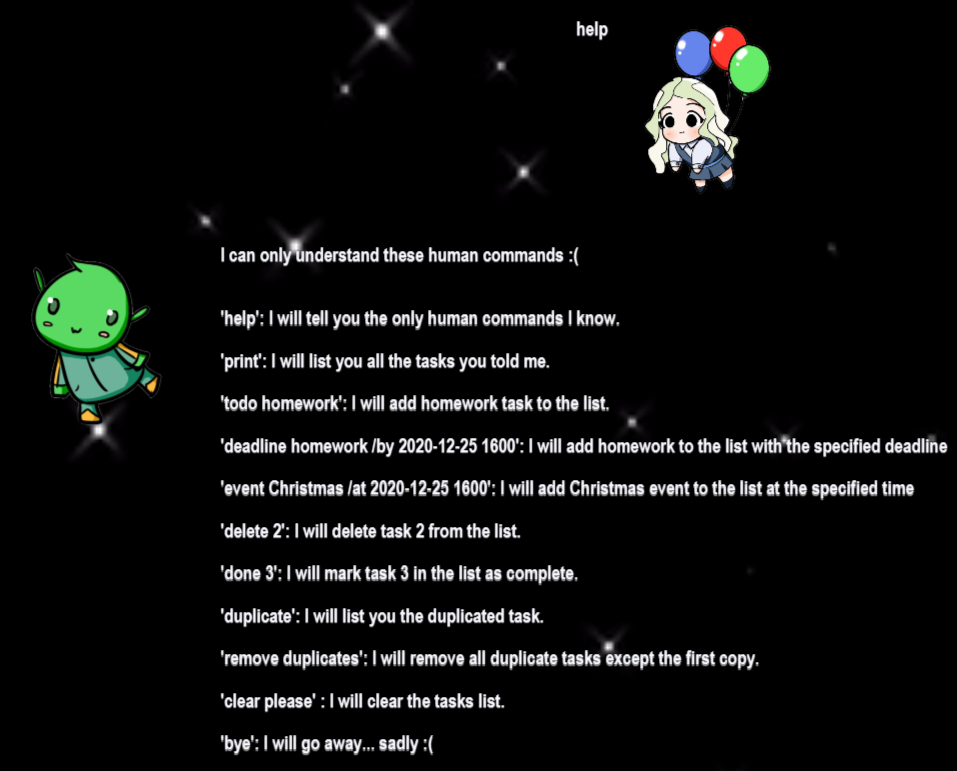
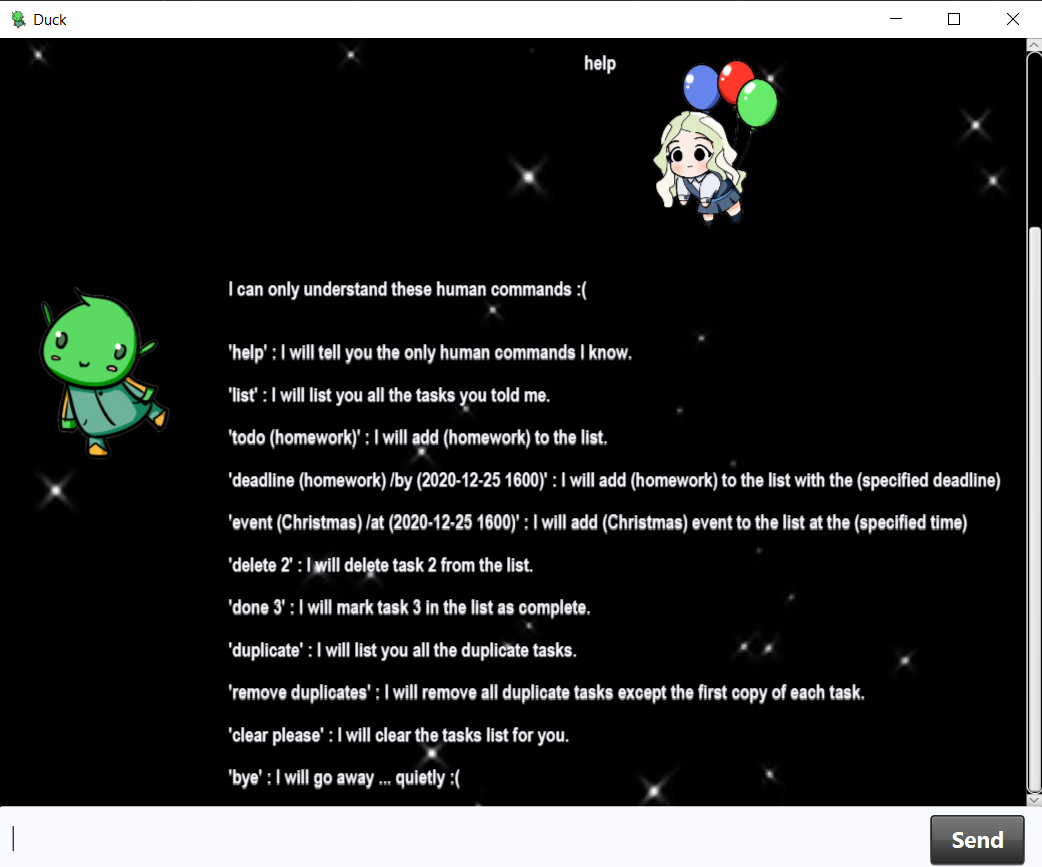
Edit help based on feedback

diff --git a/src/main/java/duke/command/Command.java b/src/main/java/duke/command/Command.java
@@ -288,19 +288,19 @@ public class Command {
      */
     private String printHelp() {
         String dukeResponse = "\tI can only understand these human commands :(\n";
-        dukeResponse += "\n\n\t'help': I will tell you the only human commands I know.";
-        dukeResponse += "\n\n\t'list': I will list you all the tasks you told me.";
-        dukeResponse += "\n\n\t'todo homework': I will add homework task to the list.";
-        dukeResponse += "\n\n\t'deadline homework /by 2020-12-25 1600': I will " +
-            "add homework to the list with the specified deadline";
-        dukeResponse += "\n\n\t'event Christmas /at 2020-12-25 1600': I will " +
-            "add Christmas event to the list at the specified time";
-        dukeResponse += "\n\n\t'delete 2': I will delete task 2 from the list.";
-        dukeResponse += "\n\n\t'done 3': I will mark task 3 in the list as complete.";
-        dukeResponse += "\n\n\t'duplicate': I will list you the duplicated task.";
-        dukeResponse += "\n\n\t'remove duplicates': I will remove all duplicate tasks except the first copy.";
-        dukeResponse += "\n\n\t'clear please' : I will clear the tasks list.";
-        dukeResponse += "\n\n\t'bye': I will go away... sadly :(";
+        dukeResponse += "\n\n\t'help' : I will tell you the only human commands I know.";
+        dukeResponse += "\n\n\t'list' : I will list you all the tasks you told me.";
+        dukeResponse += "\n\n\t'todo (homework)' : I will add (homework) to the list.";
+        dukeResponse += "\n\n\t'deadline (homework) /by (2020-12-25 1600)' : I will " +
+            "add (homework) to the list with the (specified deadline)";
+        dukeResponse += "\n\n\t'event (Christmas) /at (2020-12-25 1600)' : I will " +
+            "add (Christmas) event to the list at the (specified time)";
+        dukeResponse += "\n\n\t'delete 2' : I will delete task 2 from the list.";
+        dukeResponse += "\n\n\t'done 3' : I will mark task 3 in the list as complete.";
+        dukeResponse += "\n\n\t'duplicate' : I will list you all the duplicate tasks.";
+        dukeResponse += "\n\n\t'remove duplicates' : I will remove all duplicate tasks except the first copy of each task.";
+        dukeResponse += "\n\n\t'clear please' : I will clear the tasks list for you.";
+        dukeResponse += "\n\n\t'bye' : I will go away ... quietly :(";
         return dukeResponse;
     }
 }

diff --git a/src/main/java/duke/Duke.java b/src/main/java/duke/Duke.java
@@ -28,9 +28,15 @@ public class Duke {
     }
 
     public String intro() {
-        return "Hi Mary Poppins! My name is Duck. I am not familiar with the human language.\n"
+        String intro = "Hi Mary Poppins! My name is Duck. I am not familiar with the human language.\n"
             + "But I would very much like to know about your adventures :(\n"
             + "Would you type 'help' to know about all the commands that I understand? :D";
+        if (tasks.size() > 0) {
+            intro = "Hi again Poppins! Thanks for talking to me again :)\n"
+                + "What adventures do you want me to record today?\n"
+                + "Once again if you forgot how to communicate with me type 'help' :D";
+        }
+        return intro;
     }
 
     /**
